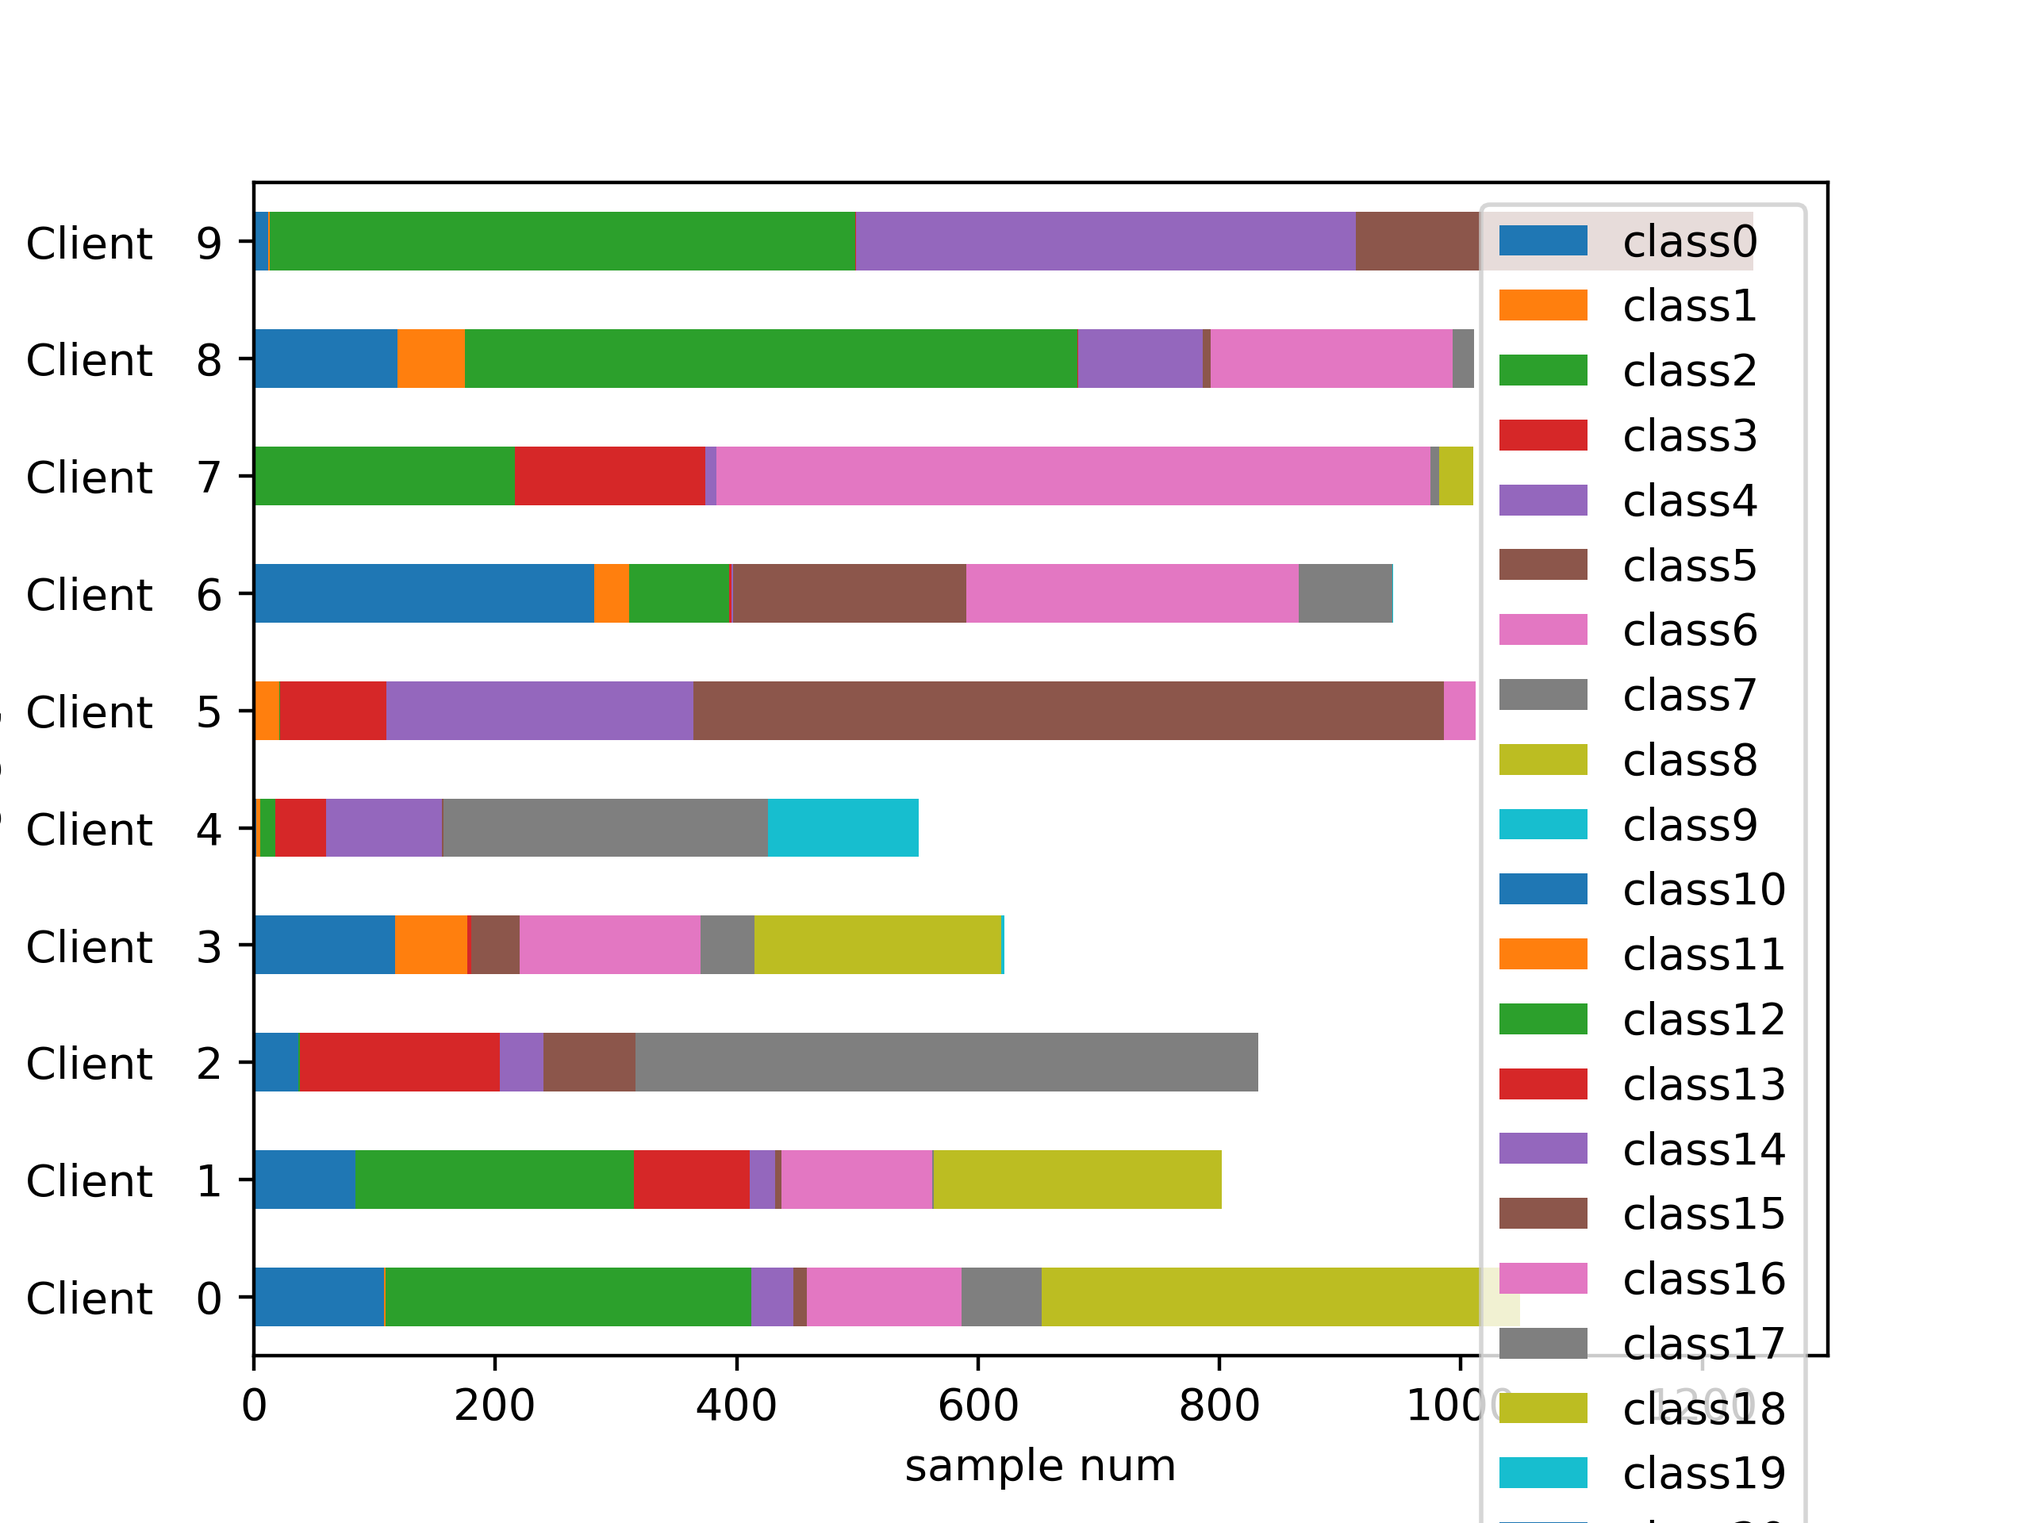
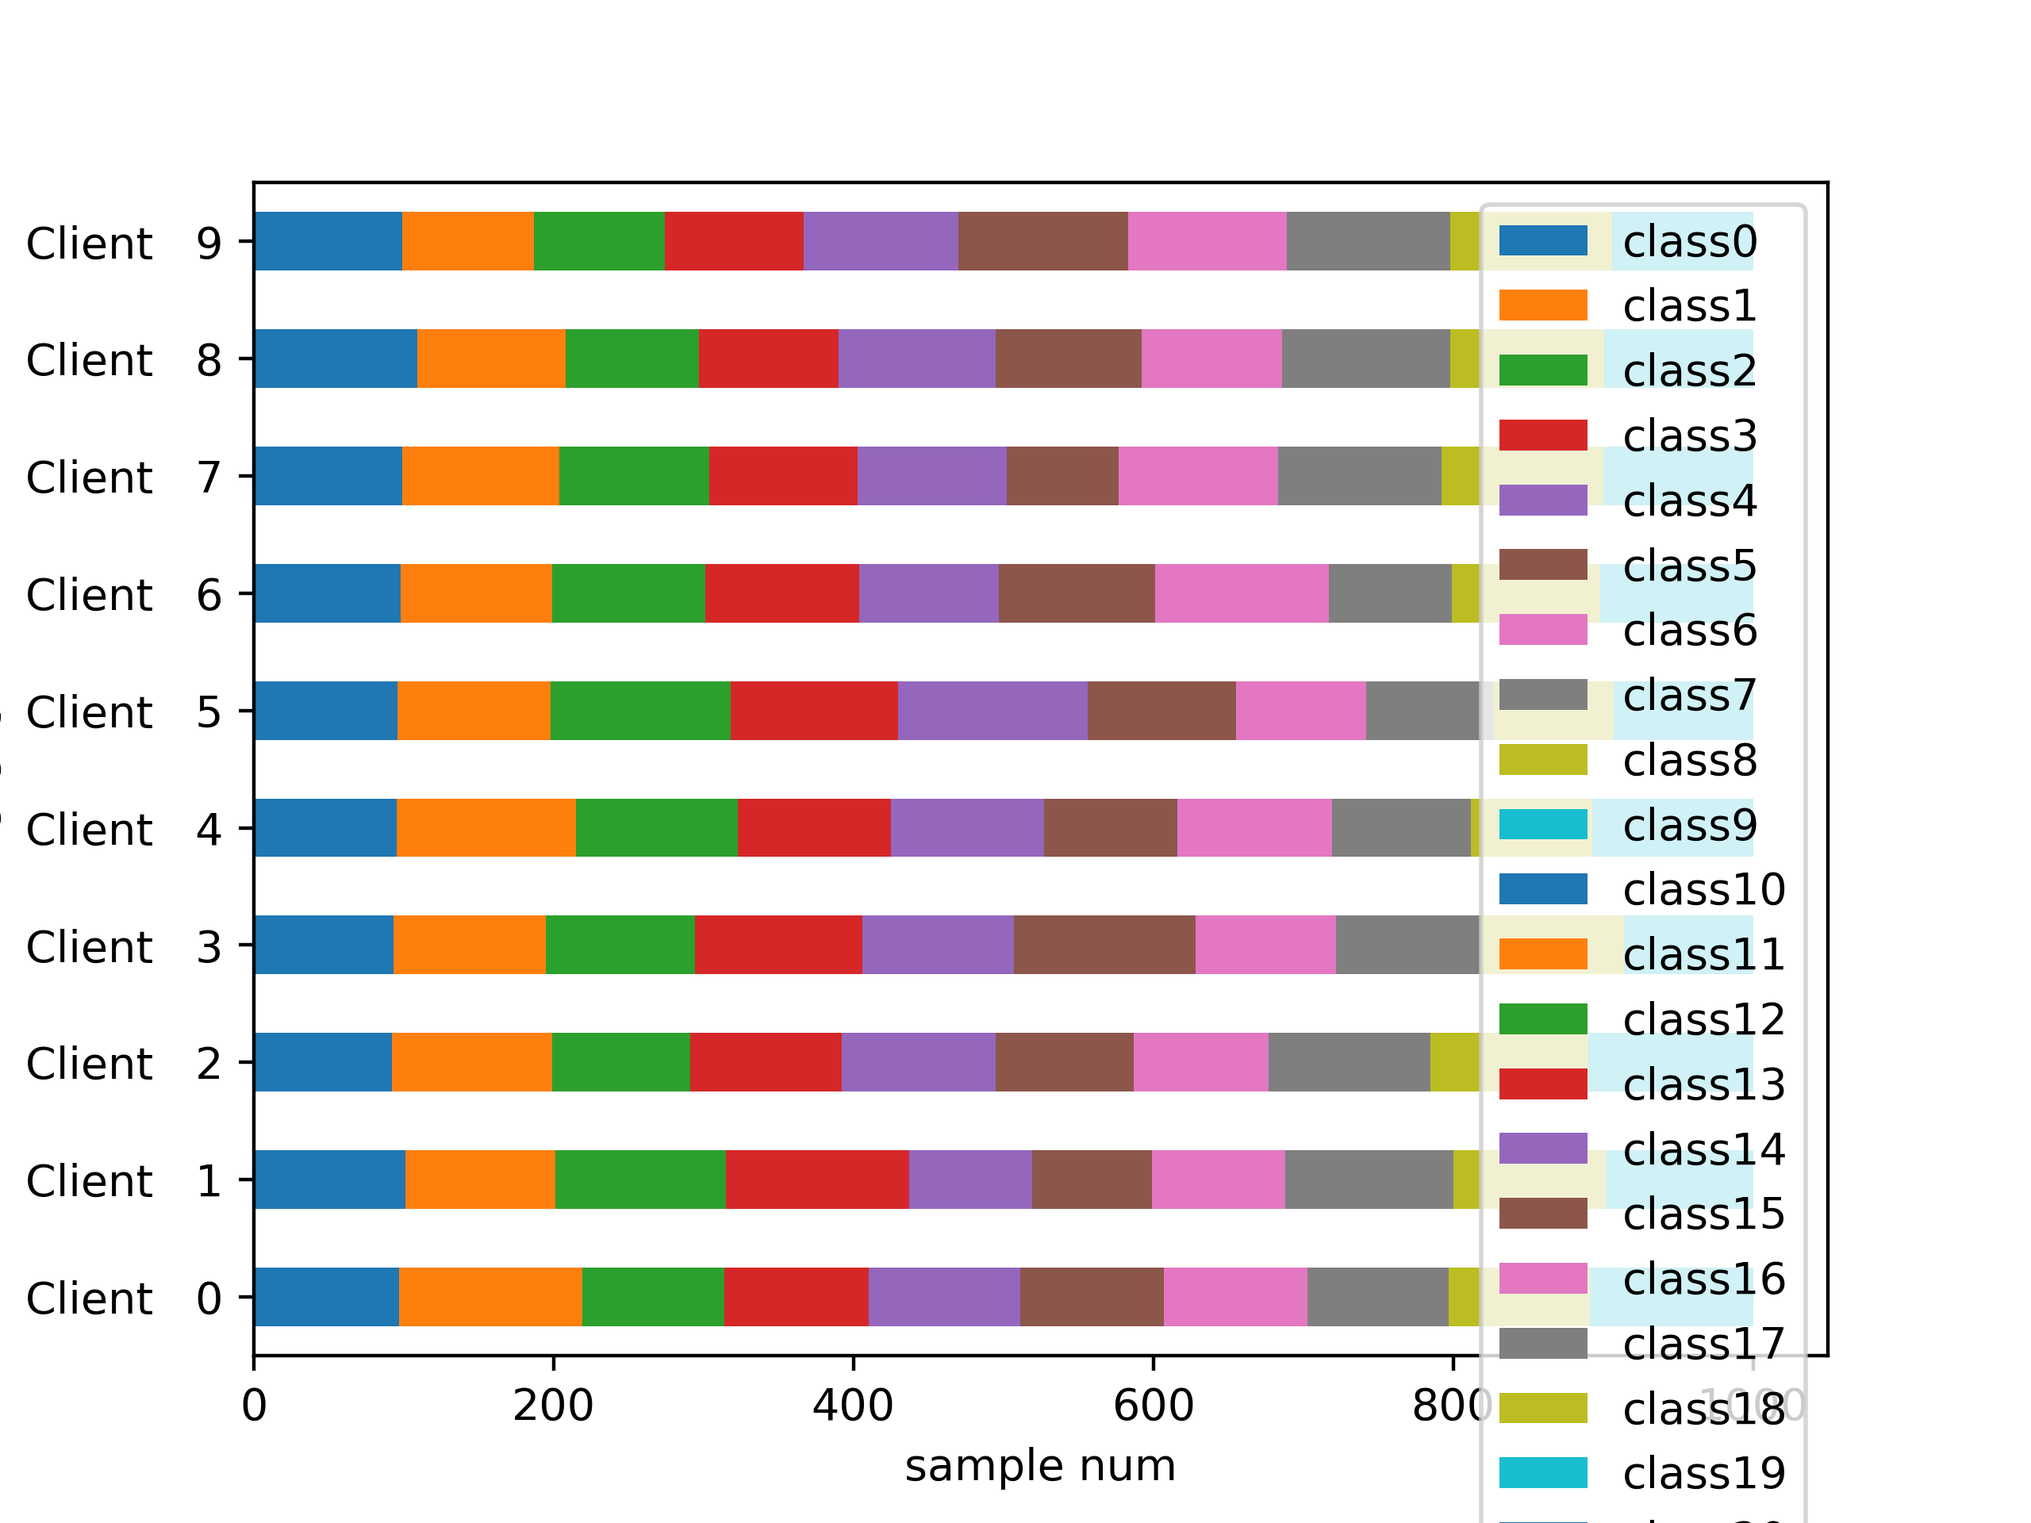
fed_ring

diff --git a/methods/frame/fed_ring.py b/methods/frame/fed_ring.py
@@ -1,0 +1,93 @@
+# -*- codeing = utf-8 -*-
+# @Author: 13483
+# @Time: 2022/10/14 11:38
+import copy
+import sys
+import torch
+from tensorboardX import SummaryWriter
+import numpy as np
+from torch.utils.data import Subset, DataLoader
+from methods.client.local_train import LocalTrain
+import src.models.model as md
+from methods.tool import tool
+
+
+# 实现fed_ring 首尾相连+蒸馏
+def fed_ring(args, trainset, testset, part_data):
+    # 1. 将所有要训练的客户端首尾相连
+    path = tool.mk_path(args)
+    writer_file = f"fed_ring-{args.dataset}-clientNum{args.client_num}-dir{args.alpha}-seed{args.seed}-lr{args.lr}"
+    writer = SummaryWriter(f"{path}/{writer_file}")
+    # 所有已经分好组的训练集和测试集
+    train_loaders = [DataLoader(Subset(trainset, part_data.client_dict[i]), batch_size=args.batch_size, shuffle=True)
+                     for i in range(args.client_num)]
+    test_loader = DataLoader(testset, batch_size=args.batch_size, shuffle=False)
+    # 选择模型
+    options = md.generate_options(args.dataset, args.model)
+    options['model'] = args.model
+    model = md.choose_model(options)
+
+    # 需要记录每个客户端中的私有模型
+    client_private_model = {}
+    client_private_params_temp = {}
+    for item in range(args.round_num):
+        print(f"---Round:{item}---")
+
+        # 每轮随机选择所有客户端
+        first_round_params = {}
+        for k in range(args.client_num):
+            if k % 5 == 0:
+                print(f"training {k}th - {k + 5}th clients")
+
+            # 如果是第一轮，所有客户端只训练一个自己的模型
+            if item == 0:
+                local = LocalTrain(args, train_loaders[k])
+                param, loss = local.train(model)
+                first_round_params[k] = tool.get_flat_params_from(param)
+            # 如果不是第一轮，每次取相邻两个的模型互相学习
+            else:
+                local = LocalTrain(args, train_loaders[k])
+                m1 = copy.deepcopy(client_private_model[k][0])
+                m2 = copy.deepcopy(client_private_model[k][1])
+                pre, nex = local.train_mul(m1, m2)
+                client_private_params_temp[k] = (
+                copy.deepcopy(tool.get_flat_params_from(pre)), copy.deepcopy(tool.get_flat_params_from(nex)))
+        if item == 0:
+            client_private_model = get_assigned_model_dic(args, first_round_params, first_epoch=True)
+        else:
+            client_private_model = get_assigned_model_dic(args, client_private_params_temp, first_epoch=False)
+
+        # 每一轮训练完，测试全局模型在全局测试集上的表现(所有模型精度的平均值)
+        all_acc = []
+        for i in range(args.client_num):
+            pre_idx = (i + args.client_num - 1) % args.client_num
+            model_i = client_private_model[pre_idx][1]
+            acc_i = tool.global_test(model_i, test_loader)
+            all_acc.append(acc_i)
+            print(f"model{i} acc : {acc_i}")
+        avg_acc = sum(all_acc) / len(all_acc)
+
+        print(f'Fed_ring Round {item} Accuracy on global test set: {avg_acc}%')
+        writer.add_scalars('Loss/Epoch',
+                           {'All Data': avg_acc}, item)
+
+
+# 根据第一轮模型列表，组装出一个分配好的字典
+def get_assigned_model_dic(args, param_dic, first_epoch):
+    dic = {}
+    options = md.generate_options(args.dataset, args.model)
+    options['model'] = args.model
+    model1 = md.choose_model(options)
+    model2 = md.choose_model(options)
+    for i in range(args.client_num):
+        pre_idx = (i + args.client_num - 1) % args.client_num
+        nex_idx = (i + 1) % args.client_num
+        if first_epoch:
+            tool.set_flat_params_to(model1, param_dic[pre_idx])
+            tool.set_flat_params_to(model2, param_dic[nex_idx])
+
+        else:
+            tool.set_flat_params_to(model1, param_dic[pre_idx][1])
+            tool.set_flat_params_to(model2, param_dic[nex_idx][0])
+        dic[i] = (copy.deepcopy(model1), copy.deepcopy(model2))
+    return dic

diff --git a/methods/client/local_train.py b/methods/client/local_train.py
@@ -19,13 +19,13 @@ class LocalTrain(object):
 
     def train(self, net):
         net.train()
-        optimizer = torch.optim.SGD(net.parameters(), lr=self.args.lr, momentum=0.5)
+        optimizer = torch.optim.SGD(net.parameters(), lr=self.args.lr, weight_decay=1e-3, momentum=0.9)
         epoch_loss = []
         for epoch in range(self.epoch):
             per_epoch_loss = []
             for batch_idx, (inputs, labels) in enumerate(self.train_loader):
                 inputs, labels = inputs.to(device), labels.to(device)
-                net.zero_grad()
+                optimizer.zero_grad()
                 prediction = net(inputs)
                 loss = self.loss_func(prediction, labels)
                 per_epoch_loss.append(loss.item())
@@ -33,33 +33,34 @@ class LocalTrain(object):
                 optimizer.step()
             per_loss = sum(per_epoch_loss) / len(per_epoch_loss)
             epoch_loss.append(per_loss)
-            print(f"Update Epoch : {epoch} Loss : {per_loss}")
         return net.parameters(), sum(epoch_loss) / len(epoch_loss)
 
     # 接受两个网络互学习，model是本地模型，meme是全局模型
     def train_mul(self, net1, net2):
         model = net1
         meme = net2
-        optimizer = torch.optim.SGD(model.parameters(), lr=self.args.lr, momentum=0.5)
-        meme_optimizer = torch.optim.SGD(meme.parameters(), lr=self.args.lr, momentum=0.5)
+        optimizer = torch.optim.SGD(model.parameters(), lr=self.args.lr, weight_decay=1e-3,momentum=0.9)
+        meme_optimizer = torch.optim.SGD(meme.parameters(), lr=self.args.lr, weight_decay=1e-3,momentum=0.9)
 
         model.train();
         model = model.to(device)
         meme.train()
         meme = meme.to(device)
 
+        scheduler = torch.optim.lr_scheduler.StepLR(optimizer, step_size=1, gamma=1)
         KL_Loss = nn.KLDivLoss(reduction='batchmean')
         Softmax = nn.Softmax(dim=1)
         LogSoftmax = nn.LogSoftmax(dim=1)
         CE_Loss = nn.CrossEntropyLoss()
-        alpha = 0.5
-        beta = 0.5
+        alpha = 0.9
+        beta = 0.9
 
         for e in range(self.epoch):
             # Training
             for batch_idx, (inputs, labels) in enumerate(self.train_loader):
                 inputs, labels = inputs.to(device), labels.to(device)
-                model.zero_grad()
+                optimizer.zero_grad()
+                meme_optimizer.zero_grad()
 
                 output_local = model(inputs)
                 output_meme = meme(inputs)
@@ -71,10 +72,9 @@ class LocalTrain(object):
 
                 loss_local = alpha * ce_local + (1 - alpha) * kl_local
                 loss_meme = beta * ce_meme + (1 - beta) * kl_meme
-                loss_local.backward()
-                loss_meme.backward()
+                loss = loss_local + loss_meme
+                loss.backward()
 
                 optimizer.step()
                 meme_optimizer.step()
-
         return model.parameters(), meme.parameters()

diff --git a/utils/split.py b/utils/split.py
@@ -19,7 +19,7 @@ def dirichlet_part(args, trainset, alpha):
     if dataset == "cifar10":
         hetero_dir_part = CIFAR10Partitioner(trainset.targets,
                                              num_clients,
-                                             balance=False,
+                                             balance=None,
                                              partition="dirichlet",
                                              dir_alpha=alpha,
                                              verbose=False,
@@ -35,7 +35,7 @@ def dirichlet_part(args, trainset, alpha):
     if dataset == "cifar100":
         hetero_dir_part = CIFAR10Partitioner(trainset.targets,
                                              num_clients,
-                                             balance=False,
+                                             balance=None,
                                              partition="dirichlet",
                                              dir_alpha=alpha,
                                              seed=seed)
@@ -67,21 +67,21 @@ def part_show(trainset, part, num_classes):
 
 
 def split_test():
-    num_classes = 100
+    num_classes = 10
     trainset = torchvision.datasets.CIFAR10(root="D:\WorkSpace\Pycharm\data\cifar10", train=True, download=True)
     hetero_dir_part = CIFAR10Partitioner(trainset.targets,
-                                         10,
-                                         balance=False,
+                                         num_clients=50,
+                                         balance=None,
                                          partition="dirichlet",
-                                         dir_alpha=0.3,
-                                         seed=10)
+                                         dir_alpha=0.5,
+                                         seed=1)
 
-    dict_path = "D:\WorkSpace\Pycharm\FedAvg\data\part-file\dict"
+    # dict_path = "D:\WorkSpace\Pycharm\FedAvg\data\part-file\dict"
     #dict
-    dict = load_dict(dict_path)
+    # dict = load_dict(dict_path)
     # print(dict)
     # save_dict(hetero_dir_part,dict_path)
-    csv_file = "D:\WorkSpace\Pycharm\FedAvg\cifar10_hetero_dir_0.3_100clients.csv"
+    csv_file = "D:\WorkSpace\Pycharm\FedWay\cifar10_hetero_dir_0_5_50clients.csv"
     partition_report(trainset.targets, hetero_dir_part.client_dict,
                      class_num=num_classes,
                      verbose=False, file=csv_file)
@@ -95,7 +95,7 @@ def split_test():
     hetero_dir_part_df[col_names].iloc[:10].plot.barh(stacked=True)
     plt.tight_layout()
     plt.xlabel('sample num')
-    plt.savefig(f"cifar10_hetero_dir_0.3_100clients.png", dpi=400)
+    plt.savefig(f"cifar10_hetero_dir_0_5_50clients.png", dpi=400)
 
 
 if __name__ == '__main__':

diff --git a/methods/frame/fed_mutual.py b/methods/frame/fed_mutual.py
@@ -1,6 +1,8 @@
 # -*- codeing = utf-8 -*-
 # @Author: 13483
 # @Time: 2022/10/14 0:08
+import copy
+import os
 import sys
 import torch
 from tensorboardX import SummaryWriter
@@ -12,8 +14,9 @@ from methods.tool import tool
 # 实现fed_mutual方法
 # 本地模型和全局模型互学习
 def fed_mutual(args, trainset, testset, part_data):
-    writer_file = f"fed_mutual-{args.dataset}-clientNum{args.client_num}-dir{str(args.alpha).replace('.', '_')}-seed{args.seed}"
-    writer = SummaryWriter(f"{sys.path[0]}/{args.data_path}/run_result/{writer_file}")
+    path = tool.mk_path(args)
+    writer_file = f"fed_mutual-{args.dataset}-clientNum{args.client_num}-dir{args.alpha}-seed{args.seed}-lr{args.lr}"
+    writer = SummaryWriter(f"{path}/{writer_file}")
     # 所有已经分好组的训练集和测试集
     train_loaders = [DataLoader(Subset(trainset, part_data.client_dict[i]), batch_size=args.batch_size, shuffle=True)
                      for i in range(args.client_num)]
@@ -34,14 +37,15 @@ def fed_mutual(args, trainset, testset, part_data):
         for k in range(args.clients_per_round):
             private_model = model
             if idx_users[k] in client_private_params.keys():
-                tool.set_flat_params_to(private_model,client_private_params[idx_users[k]])
+                print(f"client {idx_users[k]} in dict")
+                tool.set_flat_params_to(private_model, copy.deepcopy(client_private_params[idx_users[k]]))
 
             # 训练每个选到的客户端
             local = LocalTrain(args, train_loaders[idx_users[k]])
-            private_model,meme = local.train_mul(private_model,model)
+            private_param, meme_param = local.train_mul(private_model, model)
 
-            selected_params.append(tool.get_flat_params_from(meme))
-            client_private_params[idx_users[k]] = tool.get_flat_params_from(private_model)
+            selected_params.append(tool.get_flat_params_from(meme_param))
+            client_private_params[idx_users[k]] = copy.deepcopy(tool.get_flat_params_from(private_param))
 
         # 每轮训练结束后，将该轮选取的客户端模型聚合，得到最新的全局模型
         global_param = tool.aggregate_avg(selected_params)

diff --git a/main_fed.py b/main_fed.py
@@ -2,9 +2,11 @@
 # @Author: 13483
 # @Time: 2022/9/8 19:35
 import argparse
+import datetime
+
 import torchvision
 import torchvision.transforms as transforms
-from methods.frame import fedavg,fed_mutual
+from methods.frame import fedavg,fed_mutual,fed_ring
 from utils import split
 
 OPTIMIZERS = ['fedavg', "fed_mutual"]
@@ -28,6 +30,7 @@ def read_options():
     parser.add_argument("--lr", help="learning rate", type=float, default=0.003)
     parser.add_argument("--seed", help="seed for randomness",type=int)
     parser.add_argument("--alpha", help="dirichlet parameter alpha", type=float, default=0.2)
+    parser.add_argument("--begin_time", help="run begin time", type=str, default=datetime.datetime.now().strftime('%Y-%m-%d-%H-%M'))
 
     try:
         parsed = parser.parse_args()
@@ -50,13 +53,11 @@ def run_fed():
     # 划分数据，如果划分过就直接从文件加载
     alpha = args.alpha
 
-    part_file_name = f"data/part-file/{args.dataset}-clientNum{args.client_num}-dir{str(alpha).replace('.','_')}-seed{args.seed}-partition"
-
     part_data = split.dirichlet_part(args=args, trainset=train_set,alpha=alpha)
 
     # fedavg.fedavg(args, train_set, test_set, part_data)
-    fed_mutual.fed_mutual(args,train_set,test_set,part_data)
-
+    # fed_mutual.fed_mutual(args,train_set,test_set,part_data)
+    fed_ring.fed_ring(args,train_set,test_set,part_data)
 
 def load_loader(args):
     path = f"{args.data_path}/{args.dataset}"

diff --git a/methods/tool/tool.py b/methods/tool/tool.py
@@ -2,11 +2,15 @@
 # @Author: 13483
 # @Time: 2022/10/13 22:50
 # 对参数的公共操作
+import os
+import sys
 
 import torch
 import numpy as np
 
 device = torch.device("cuda" if torch.cuda.is_available() else "cpu")
+
+
 # 获取每个模型的参数(一维)
 def get_flat_params_from(parameters):
     params = []
@@ -30,6 +34,7 @@ def set_flat_params_to(model, flat_params):
 def global_test(model, test_loader):
     correct = 0
     total = 0
+    model = model.to(device)
     with torch.no_grad():
         for data in test_loader:
             inputs, target = data
@@ -41,6 +46,7 @@ def global_test(model, test_loader):
             correct += (predicted == target).sum().item()
     acc = 100 * correct / total
     return acc
+
 
 # 对模型进行聚合
 def aggregate_avg(flat_params):
@@ -69,3 +75,10 @@ def aggregate_avg(flat_params):
 
     # averaged_solution = from_numpy(averaged_solution, self.gpu)
     return averaged_solution.detach()
+
+
+def mk_path(args):
+    path = f"{sys.path[0]}/{args.data_path}/run_result/{args.begin_time}/"
+    if not os.path.exists(path):
+        os.makedirs(path)
+    return path

diff --git a/methods/frame/fedavg.py b/methods/frame/fedavg.py
@@ -13,8 +13,9 @@ from methods.tool import tool
 
 # 实现fedavg算法
 def fedavg(args, trainset, testset, part_data):
-    writer_file = f"fedavg-{args.dataset}-clientNum{args.client_num}-dir{str(args.alpha).replace('.','_')}-seed{args.seed}"
-    writer = SummaryWriter(f"{sys.path[0]}/{args.data_path}/run_result/{writer_file}")
+    path = tool.mk_path(args)
+    writer_file = f"fedavg-{args.dataset}-clientNum{args.client_num}-dir{args.alpha}-seed{args.seed}-lr{args.lr}"
+    writer = SummaryWriter(f"{path}/{writer_file}")
     # 所有已经分好组的训练集和测试集
     train_loaders = [DataLoader(Subset(trainset, part_data.client_dict[i]), batch_size=args.batch_size, shuffle=True)
                      for i in range(args.client_num)]
